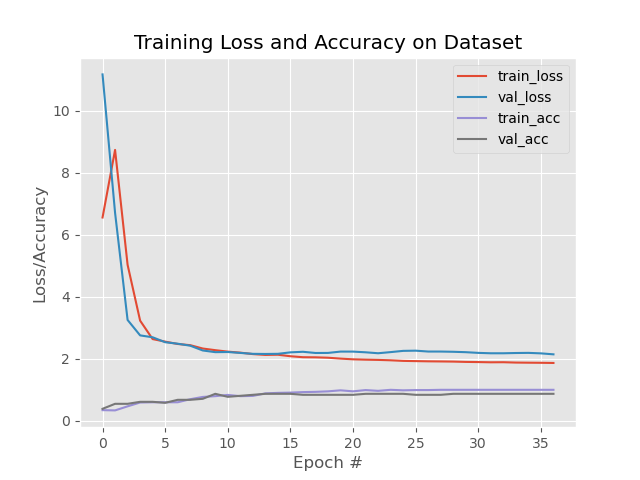
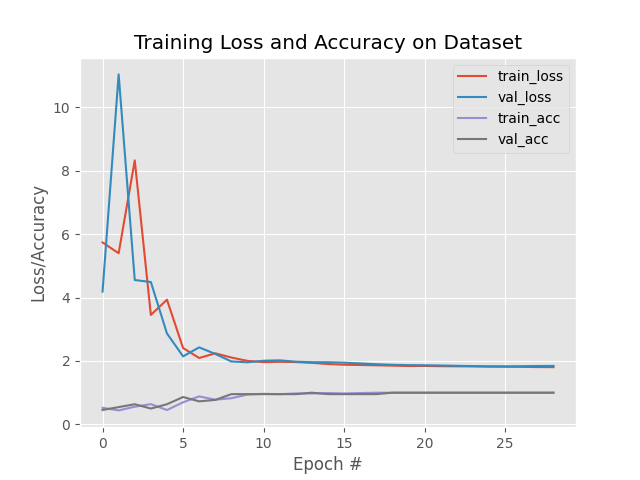
Add weight decay to mamba

diff --git a/code/mamba/main.py b/code/mamba/main.py
@@ -42,6 +42,8 @@ def parse_arguments():
                         help="The number of epochs to train the model for.")
     parser.add_argument('-lr', '--learning-rate', type=float, default=1E-3,
                         help="The learning rate for the model. Defaults to 1E-3.")
+    parser.add_argument('-wd', '--weight-decay', type=float, default=1E-3,
+                        help="The weight decay for the optimizer. Defaults to 1E-3.")
     parser.add_argument('-bs', '--batch-size', type=int, default=64,
                         help='Batch size for the DataLoader. Defaults to 64.')
     parser.add_argument('-hd', '--hidden-dimension', type=int, default=1023,
@@ -98,7 +100,7 @@ def main():
     device = torch.device('cuda' if torch.cuda.is_available() else 'cpu')
     model = model.to(device)
     criterion = nn.CrossEntropyLoss(label_smoothing=args.label_smoothing)
-    optimizer = optim.AdamW(model.parameters(), lr=args.learning_rate)
+    optimizer = optim.AdamW(model.parameters(), lr=args.learning_rate, weight_decay=args.weight_decay)
 
     train_model(
         model = model, 
